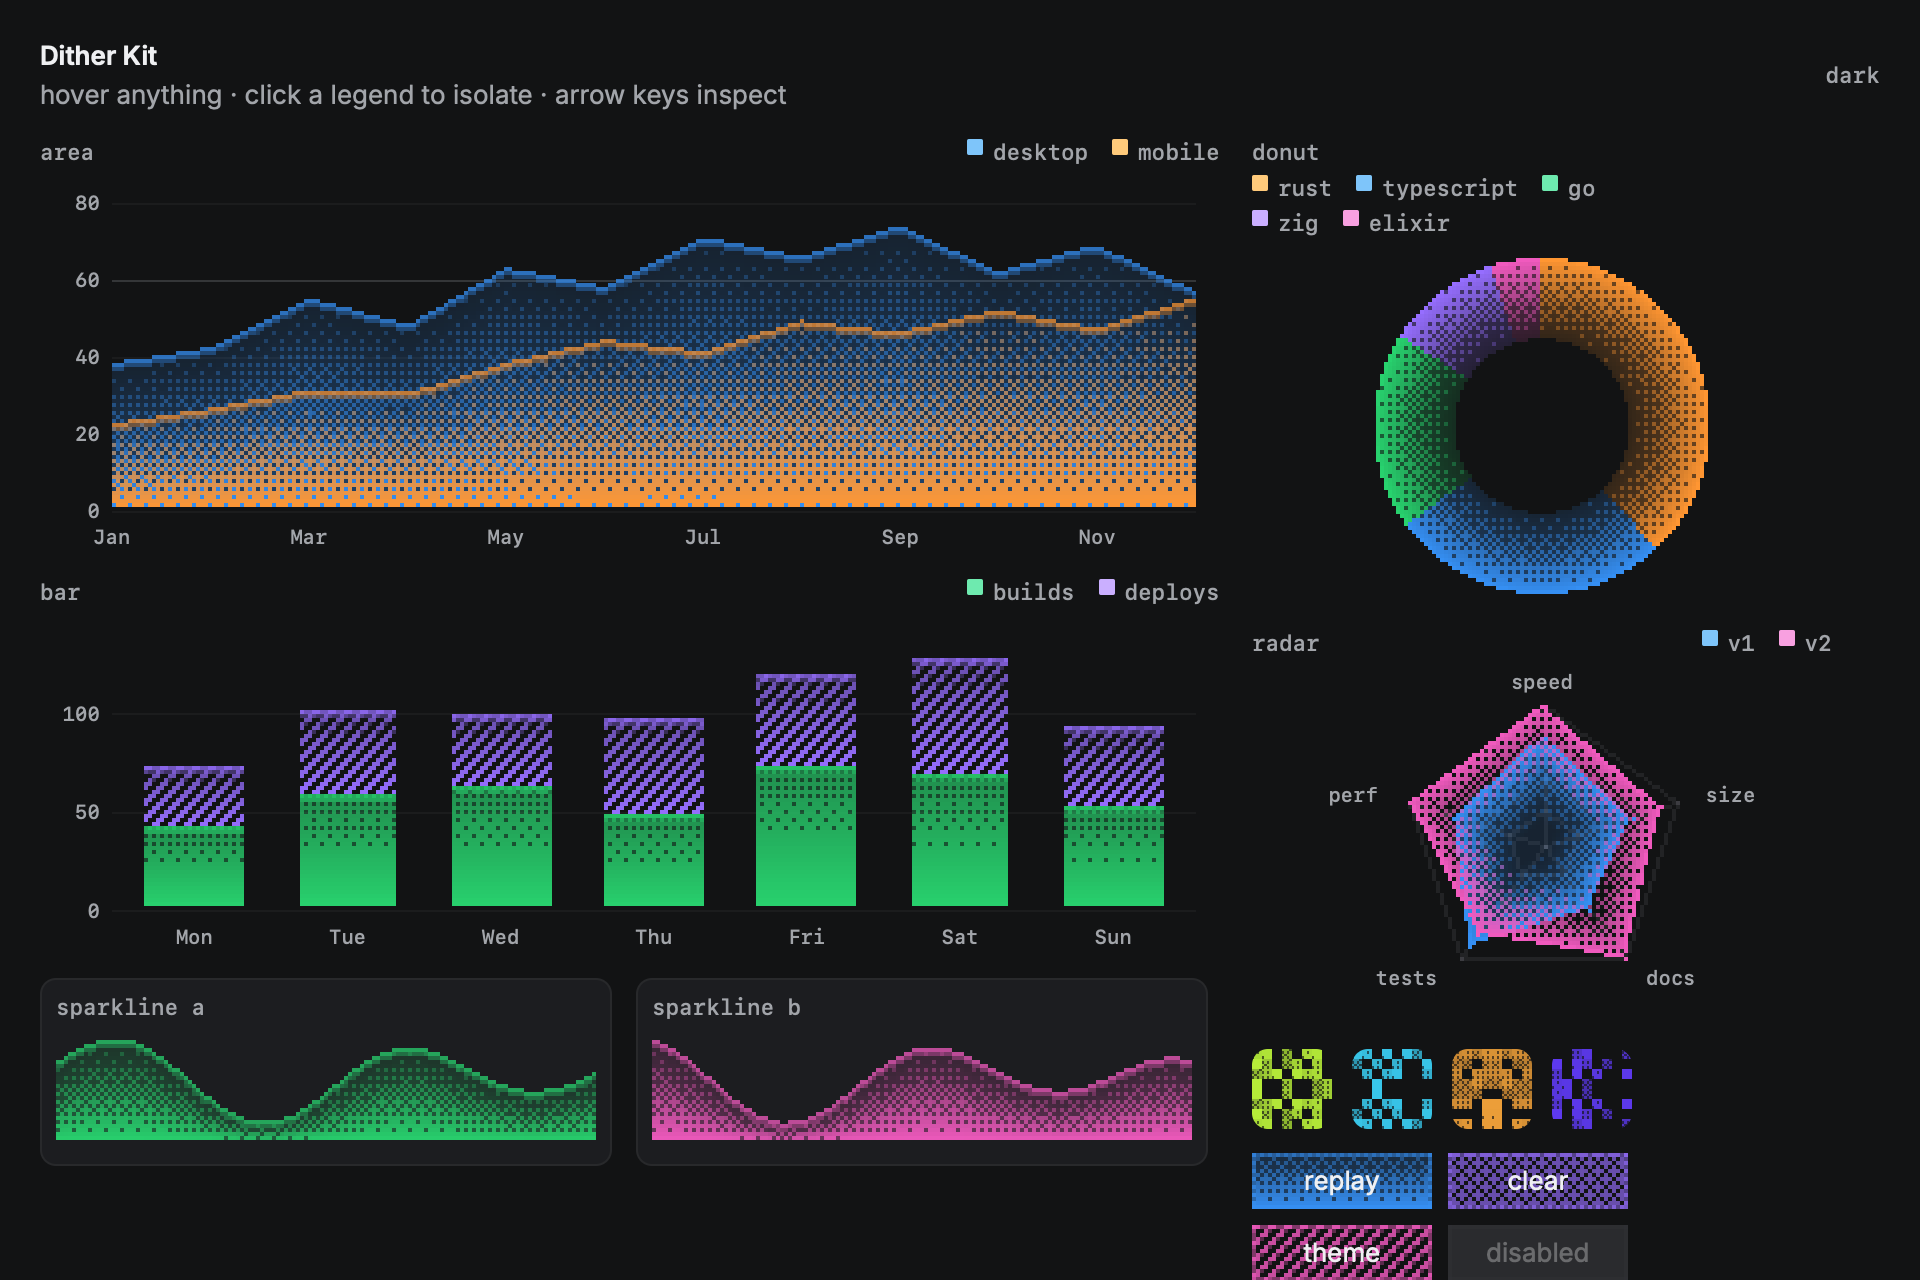
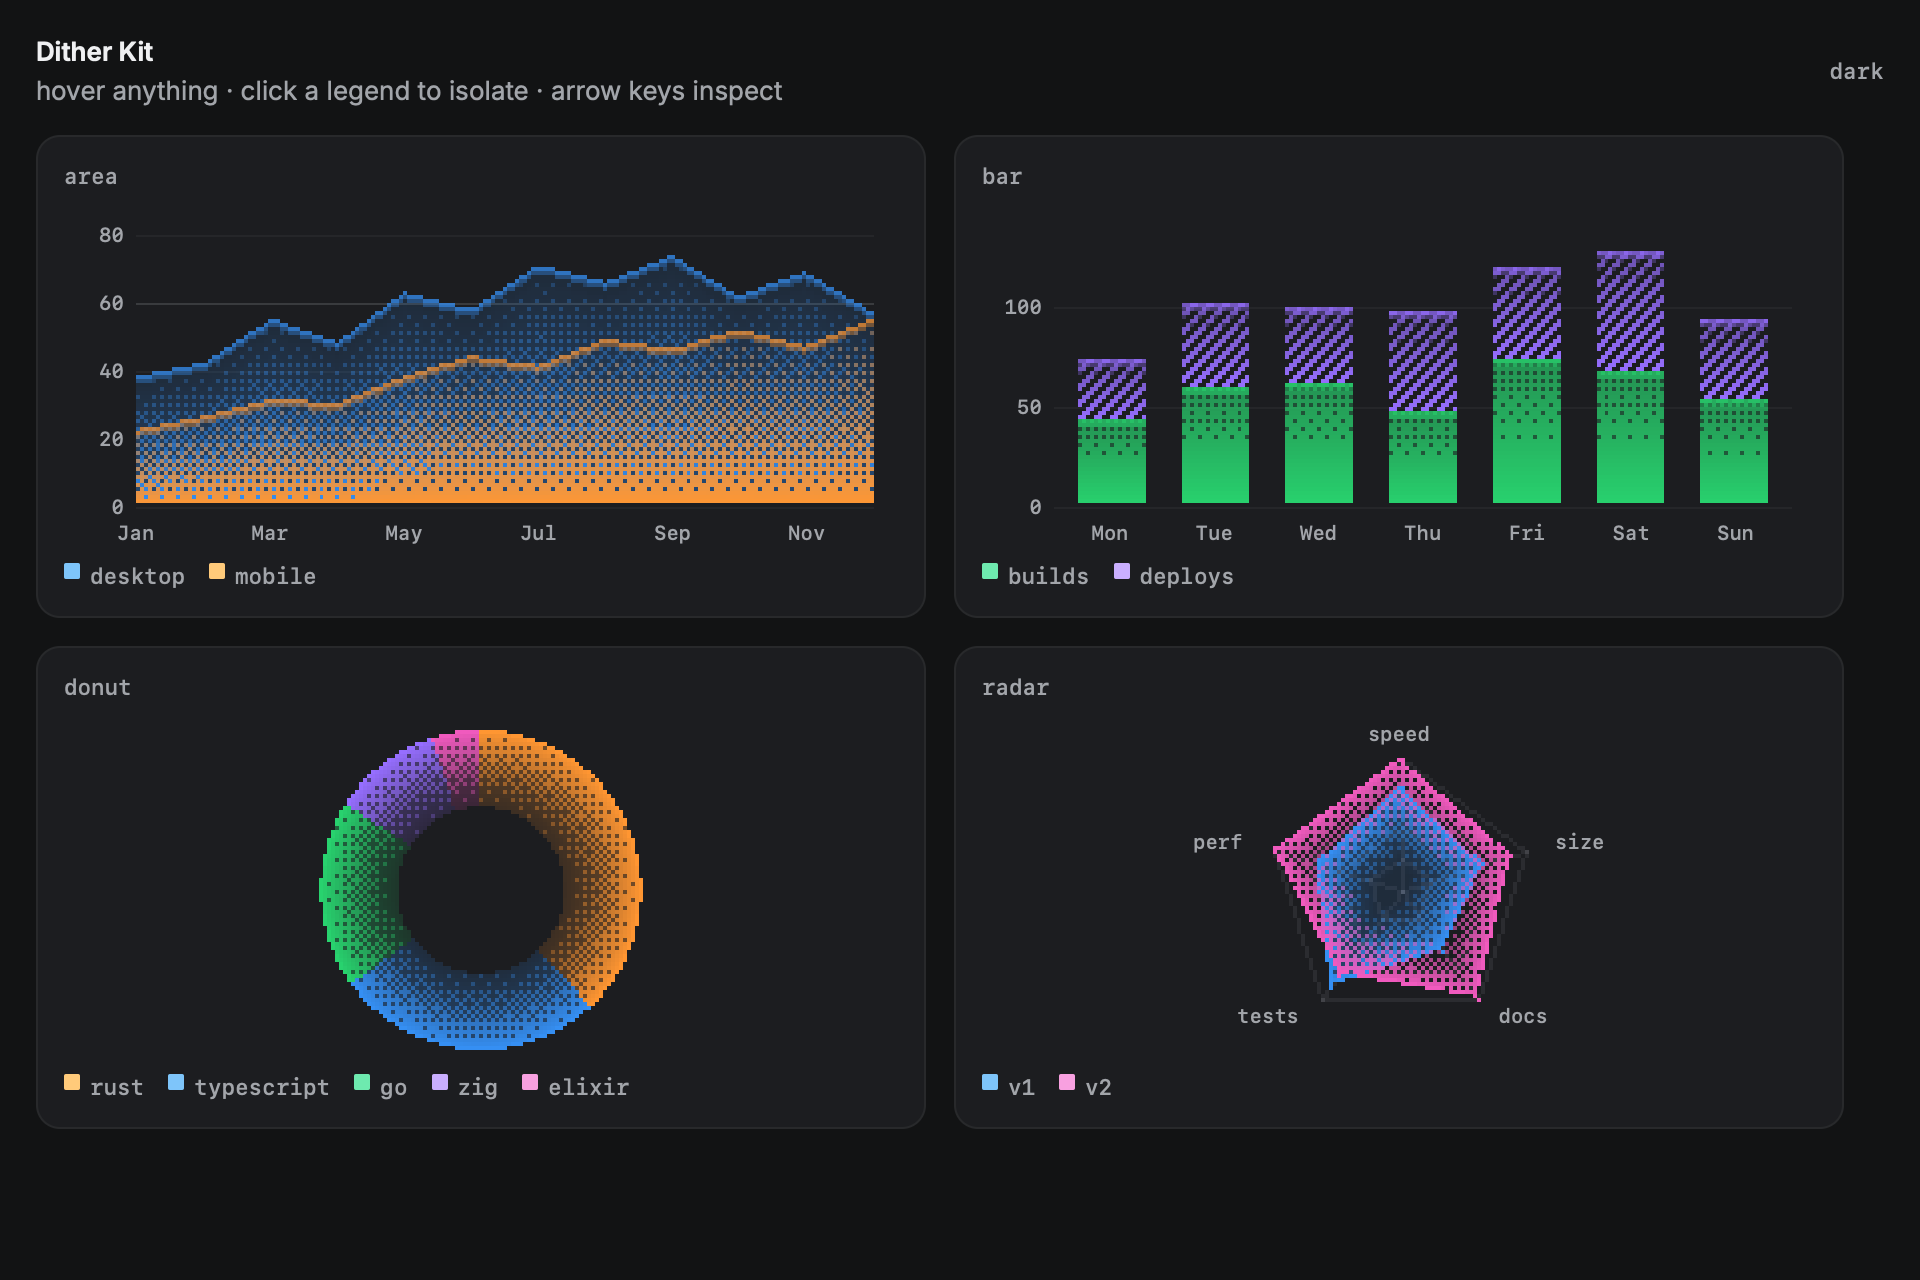
refactor: lay the dashboard out as a uniform 2x2 card grid
One card style, equal heights and consistent legend placement give each
chart a clean frame for screenshots. Avatars, buttons and gradients live
in their own showcase scenes.

diff --git a/examples/gallery/src/view.rs b/examples/gallery/src/view.rs
@@ -1,10 +1,12 @@
-//! scene dispatch: dashboard or a single component
+//! scene dispatch: a 2×2 dashboard grid or a single component
 
 use crate::state::State;
-use crate::{section_atoms, section_cartesian, section_polar, showcase, widgets};
+use crate::{interactions, showcase, widgets};
 use rune::tok;
 use rune::tok::Theme;
 use rune::{Cx, El, col, row};
+
+const CARD_W: f32 = 445.0;
 
 pub fn page(state: &State, cx: &mut Cx<State>) -> El {
     if cx.is_reduced_motion() {
@@ -27,24 +29,85 @@ fn dashboard(state: &State, theme: &Theme) -> El {
         .child(
             col()
                 .w_full()
-                .padding(20.0)
+                .padding(18.0)
                 .gap(14.0)
                 .child(widgets::header(state, theme))
                 .child(
                     row()
-                        .gap(16.0)
-                        .child(
-                            col()
-                                .w(590.0)
-                                .child(section_cartesian::section(state, theme)),
-                        )
-                        .child(
-                            col()
-                                .w(290.0)
-                                .gap(12.0)
-                                .child(section_polar::section(state, theme))
-                                .child(section_atoms::section(state, theme)),
-                        ),
+                        .gap(14.0)
+                        .child(area(state, theme))
+                        .child(bar(state, theme)),
+                )
+                .child(
+                    row()
+                        .gap(14.0)
+                        .child(donut(state, theme))
+                        .child(radar(state, theme)),
                 ),
         )
+}
+
+fn area(state: &State, theme: &Theme) -> El {
+    widgets::panel(
+        "area",
+        theme,
+        col()
+            .gap(6.0)
+            .child(interactions::cartesian(state.area.view(theme), true))
+            .child(widgets::legend_row(
+                state.area.legend(),
+                theme,
+                widgets::SeriesGroup::Area,
+            )),
+    )
+    .w(CARD_W)
+}
+
+fn bar(state: &State, theme: &Theme) -> El {
+    widgets::panel(
+        "bar",
+        theme,
+        col()
+            .gap(6.0)
+            .child(interactions::cartesian(state.bar.view(theme), false))
+            .child(widgets::legend_row(
+                state.bar.legend(),
+                theme,
+                widgets::SeriesGroup::Bar,
+            )),
+    )
+    .w(CARD_W)
+}
+
+fn donut(state: &State, theme: &Theme) -> El {
+    widgets::panel(
+        "donut",
+        theme,
+        col()
+            .gap(6.0)
+            .child(interactions::pie(state.pie.view(theme)))
+            .child(widgets::legend_wrapped(
+                state.pie.legend(),
+                theme,
+                widgets::SeriesGroup::Pie,
+                5,
+            )),
+    )
+    .w(CARD_W)
+}
+
+fn radar(state: &State, theme: &Theme) -> El {
+    widgets::panel(
+        "radar",
+        theme,
+        col()
+            .gap(6.0)
+            .child(interactions::radar(state.radar.view(theme)))
+            .child(widgets::legend_row(
+                state.radar.legend(),
+                theme,
+                widgets::SeriesGroup::Radar,
+            )),
+    )
+    .w(CARD_W)
 }

diff --git a/examples/gallery/src/main.rs b/examples/gallery/src/main.rs
@@ -5,9 +5,6 @@
 //! --scene area` renders one headless.
 
 mod interactions;
-mod section_atoms;
-mod section_cartesian;
-mod section_polar;
 mod showcase;
 mod state;
 mod view;
@@ -118,7 +115,7 @@ mod tests {
         let mut rt = Runtime::new(
             state::init(),
             view::page,
-            (960.0, 640.0),
+            (950.0, 600.0),
             Env {
                 system_dark: true,
                 scale: 2.0,
@@ -129,16 +126,16 @@ mod tests {
     }
 
     #[test]
-    fn the_dashboard_composes_every_component() {
+    fn the_dashboard_grid_paints_at_card_size() {
+        let state = state::init();
+        assert_eq!(state.area.texture().pixels().size(), (185, 68));
+        assert_eq!(state.pie.texture().pixels().size(), (209, 86));
+    }
+
+    #[test]
+    fn the_dashboard_shows_the_four_headline_charts() {
         let rt = runtime();
-        for key in [
-            "area-chart",
-            "bar-chart",
-            "pie-chart",
-            "radar-chart",
-            "spark-a",
-            "spark-b",
-        ] {
+        for key in ["area-chart", "bar-chart", "pie-chart", "radar-chart"] {
             assert!(rt.find(key).is_some(), "{key} missing");
         }
     }
@@ -153,7 +150,7 @@ mod tests {
         let mut rt = Runtime::new(
             state,
             view::page,
-            (960.0, 640.0),
+            (950.0, 600.0),
             Env {
                 system_dark: true,
                 scale: 2.0,

diff --git a/examples/gallery/src/widgets.rs b/examples/gallery/src/widgets.rs
@@ -35,13 +35,17 @@ pub fn caption(label: &str, theme: &Theme) -> El {
     text(label).font(CAPTION).color(theme.text_secondary)
 }
 
-/// caption row with the series legend on the right
-pub fn titled(label: &str, legend: Vec<LegendEntry>, theme: &Theme, group: SeriesGroup) -> El {
-    row()
-        .justify_between()
-        .center_y()
-        .child(caption(label, theme))
-        .child(legend_row(legend, theme, group))
+pub fn panel(title: &str, theme: &Theme, content: El) -> El {
+    el().padding(14.0)
+        .radius(12.0)
+        .fill(theme.card)
+        .border(1.0, theme.card_border)
+        .child(
+            col()
+                .gap(8.0)
+                .child(caption(title, theme))
+                .child(el().w_full().grow(1.0).center().child(content)),
+        )
 }
 
 pub fn legend_row(entries: Vec<LegendEntry>, theme: &Theme, group: SeriesGroup) -> El {
@@ -99,12 +103,4 @@ pub fn legend_wrapped(
         rows = rows.child(legend_row(chunk, theme, group));
     }
     rows
-}
-
-pub fn card(label: &str, theme: &Theme, chart: El) -> El {
-    el().padding(8.0)
-        .radius(8.0)
-        .fill(theme.card)
-        .border(1.0, theme.card_border)
-        .child(col().gap(4.0).child(caption(label, theme)).child(chart))
 }

diff --git a/examples/gallery/src/state.rs b/examples/gallery/src/state.rs
@@ -273,14 +273,14 @@ fn sizes(scene: Scene) -> Sizes {
         }
     } else {
         Sizes {
-            area: (590.0, 190.0),
-            bar: (590.0, 170.0),
-            spark: (270.0, 60.0),
-            pie: (290.0, 180.0),
-            radar: (290.0, 180.0),
-            avatar: 40.0,
-            button: (90.0, 28.0),
-            gradient: (290.0, 60.0),
+            area: (417.0, 172.0),
+            bar: (417.0, 172.0),
+            spark: (417.0, 64.0),
+            pie: (417.0, 172.0),
+            radar: (417.0, 172.0),
+            avatar: 64.0,
+            button: (140.0, 32.0),
+            gradient: (417.0, 110.0),
         }
     }
 }
